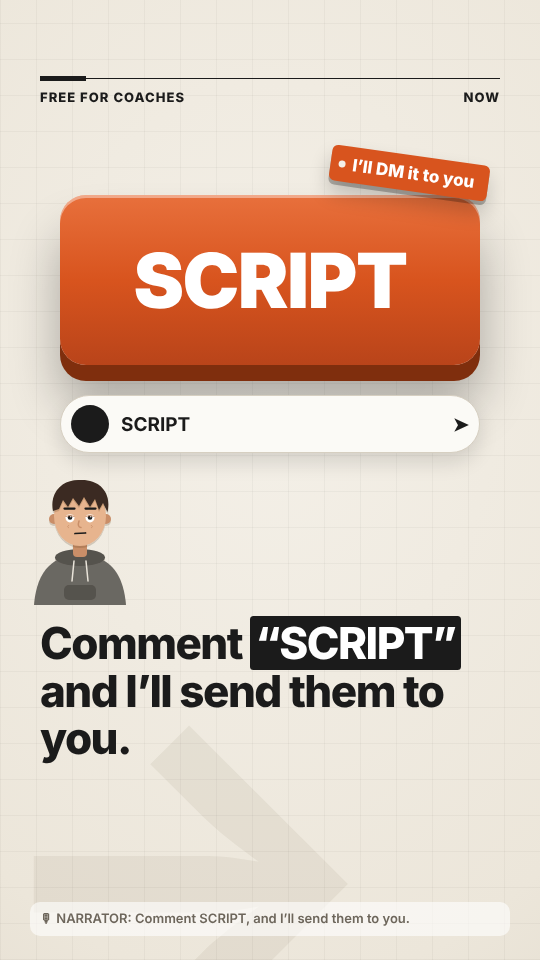
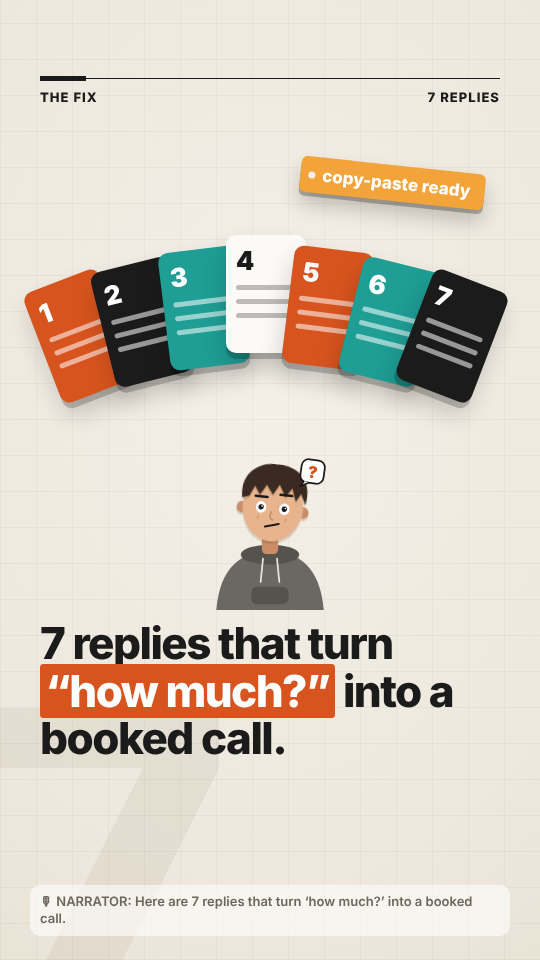
Script Reel: add 'With DMSetter' outcome scene and brand end card
Claude-Session: https://claude.ai/code/session_01LBacd4Ke2z6x4vxDoXBc2Z

diff --git a/video-studio/storyboards/script-reel/storyboard.html b/video-studio/storyboards/script-reel/storyboard.html
@@ -94,9 +94,17 @@ mark{background:#1B1B1B;color:#fff;padding:0 .1em;border-radius:.1em}mark.o{back
 .card7{position:absolute;width:80px;height:118px;border-radius:10px;box-shadow:0 6px 0 rgba(0,0,0,.2),0 14px 24px rgba(0,0,0,.18);padding:10px;color:#fff}
 .card7 b{font:900 26px Inter}.card7 i{display:block;height:5px;border-radius:3px;background:rgba(255,255,255,.55);margin-top:9px}
 .card7:nth-child(4){color:#1B1B1B}.card7:nth-child(4) i{background:rgba(0,0,0,.25)}
+.mascot{position:absolute;left:330px;top:40px;z-index:7;animation:none}
+.clock2{position:absolute;left:340px;top:190px;z-index:7;background:#fff;color:#D8541E;font:800 15px Inter;padding:6px 12px;border-radius:16px;box-shadow:0 3px 0 #d0c8b8;transform:rotate(4deg)}
+.stamp3{position:absolute;left:330px;top:250px;z-index:7;padding:4px 12px;border:5px solid #D8541E;color:#D8541E;font:900 30px Inter;border-radius:10px;transform:rotate(-12deg);background:rgba(244,240,232,.85)}
+.endlogo{position:absolute;left:150px;top:10px}
+.wm{position:absolute;left:0;right:0;top:250px;text-align:center;font:900 64px Inter;letter-spacing:-.04em;color:#1B1B1B}.wm span{color:#D8541E}
+.outc{position:absolute;left:70px;right:70px;top:340px;display:grid;grid-template-columns:1fr 1fr;gap:10px}
+.o{background:#FBFAF6;border-radius:12px;padding:10px 12px;font:800 14px/1.25 Inter;display:flex;gap:8px;align-items:center;box-shadow:0 3px 0 #d8d1c3}
+.o i{font-style:normal;flex:none;width:24px;height:24px;border-radius:50%;background:#D8541E;color:#fff;display:grid;place-items:center;font:900 13px Inter}
 .key{top:70px}.cbox{top:270px;font-weight:700;color:#1B1B1B}
 
-body{width:2732px;grid-template-columns:repeat(5,540px)}
+body{width:3820px;grid-template-columns:repeat(7,540px)}
 .vo{position:absolute;left:30px;right:30px;bottom:24px;font:600 13px/1.35 Inter;color:#6D665B;background:rgba(255,255,255,.6);border-radius:10px;padding:8px 10px}</style></head>
 <body><section class="fr"><div class="num">?</div>
 <header><div class="rule"></div><span>For coaches</span><em>11:41 PM</em></header>
@@ -122,10 +130,21 @@ body{width:2732px;grid-template-columns:repeat(5,540px)}
 <div class="th"><div class="m in" style="--i:0"><i class="av"></i><div class="b in">nvm, went with another coach 🙏</div></div><div class="m out" style="--i:1"><div class="b out">Hey! Sorry, just saw this 😅</div></div></div>
 <div class="in-bar"><i class="cam"><svg viewBox="0 0 24 24"><path d="M4 8h3l2-2.5h6L17 8h3v11H4z" fill="none" stroke="#fff" stroke-width="2" stroke-linejoin="round"/><circle cx="12" cy="13" r="3.2" fill="none" stroke="#fff" stroke-width="2"/></svg></i><span>Message...</span><svg viewBox="0 0 24 24"><rect x="9" y="3" width="6" height="11" rx="3" fill="none" stroke="#fff" stroke-width="1.8"/><path d="M5.5 11a6.5 6.5 0 0013 0M12 17.5V21" fill="none" stroke="#fff" stroke-width="1.8" stroke-linecap="round"/></svg><svg viewBox="0 0 24 24"><rect x="3" y="3" width="18" height="18" rx="4" fill="none" stroke="#fff" stroke-width="1.8"/><circle cx="9" cy="9" r="1.8" fill="#fff"/><path d="M4 18l5-5 4 4 3-3 4 4" fill="none" stroke="#fff" stroke-width="1.8" stroke-linejoin="round"/></svg><svg viewBox="0 0 24 24"><path d="M12 20s-7.5-4.6-7.5-10A4.3 4.3 0 0112 7.4 4.3 4.3 0 0119.5 10c0 5.4-7.5 10-7.5 10z" fill="none" stroke="#fff" stroke-width="1.8" stroke-linejoin="round"/></svg></div>
 </div></div><div class="chr" style="left:320px;top:280px"><svg class="chr" viewBox="0 0 240 300" width="170" height="212" xmlns="http://www.w3.org/2000/svg"><defs><filter id="cut" x="-10%" y="-10%" width="120%" height="130%"><feDropShadow dx="0" dy="4" stdDeviation="0" flood-color="#5A3C1E" flood-opacity=".22"/></filter></defs><g filter="url(#cut)"><path d="M28 300 C34 226 70 200 120 200 C170 200 206 226 212 300 Z" fill="#6B6862"/><ellipse cx="120" cy="205" rx="50" ry="17" fill="#55524D"/><path d="M108 212 L104 252 M132 212 L136 252" stroke="#E9E4DA" stroke-width="3" stroke-linecap="round"/><rect x="88" y="260" width="64" height="30" rx="10" fill="#55524D"/></g><rect x="106" y="168" width="28" height="36" rx="8" fill="#C98E68"/><g transform="rotate(0 120 170)"><g filter="url(#cut)"><circle cx="68" cy="128" r="10" fill="#C98E68"/><circle cx="172" cy="128" r="10" fill="#C98E68"/><ellipse cx="120" cy="122" rx="52" ry="60" fill="#E7B48E"/></g><path d="M98 140 q-6 4 0 6 M142 140 q6 4 0 6" stroke="#C98E68" stroke-width="2" fill="none" opacity=".7"/><path d="M118 132 q-4 12 4 13" stroke="#C98E68" stroke-width="3" fill="none" stroke-linecap="round"/><g filter="url(#cut)"><path d="M66 112 C58 70 90 48 120 50 C156 48 184 72 175 114 L166 96 L158 110 L150 88 L140 104 L128 84 L118 102 L106 86 L96 104 L86 90 L78 108 Z" fill="#3B2A20"/></g><g class="eyes"><ellipse cx="100" cy="125" rx="11" ry="13" fill="#FFFFFF"/><circle cx="100" cy="125" r="4" fill="#1B1B1B"/><circle cx="101.6" cy="123.4" r="1.4" fill="#fff"/><ellipse cx="140" cy="125" rx="11" ry="13" fill="#FFFFFF"/><circle cx="140" cy="125" r="4" fill="#1B1B1B"/><circle cx="141.6" cy="123.4" r="1.4" fill="#fff"/></g><path d="M89 102 L109 102" stroke="#1B1B1B" stroke-width="4.5" stroke-linecap="round"/><path d="M131 102 L151 102" stroke="#1B1B1B" stroke-width="4.5" stroke-linecap="round"/><ellipse cx="120" cy="160" rx="8" ry="10" fill="#1B1B1B"/><ellipse cx="120" cy="164" rx="5" ry="4" fill="#B5473A"/></g><path d="M176 92 q7 12 0 18 q-7 -6 0 -18z" fill="#7FC8F2" stroke="#3E8FC2" stroke-width="1.5"/><path d="M60 96 q6 10 0 15 q-6 -5 0 -15z" fill="#7FC8F2" stroke="#3E8FC2" stroke-width="1.5"/></svg></div><div class="say" style="left:300px;top:230px"><b>BEN</b>Sorry, just saw this…</div></div><div class="cap">You didn’t lose them to price. <span class="hl">You lost them to time.</span></div>
-<div class="vo">🎙 BEN: [groans] Sorry, just saw this… / NARRATOR: You didn’t lose them to price. You lost them to time.</div></section><section class="fr"><div class="num">7</div>
+<div class="vo">🎙 BEN: [groans] Sorry, just saw this… / NARRATOR: You didn’t lose them to price. You lost them to time.</div></section><section class="fr"><div class="num">✓</div>
+<header><div class="rule"></div><span>With DMSetter</span><em>11:41 PM</em></header>
+<div class="vis"><div class="ph" style="left:30px;top:10px;width:290px;height:400px;transform:rotate(-2deg)"><div class="scr">
+<div class="sb"><b>9:41</b><span class="isl"></span><em><s></s><s></s><s></s><s></s></em></div>
+<div class="hd"><svg viewBox="0 0 24 24"><path d="M15 4l-8 8 8 8" fill="none" stroke="#fff" stroke-width="2.4" stroke-linecap="round" stroke-linejoin="round"/></svg><i class="pav"></i><div><b>New lead</b><small>Active now</small></div><span><svg viewBox="0 0 24 24"><path d="M5 4h4l2 5-2.5 1.5a11 11 0 005 5L15 13l5 2v4a2 2 0 01-2 2A16 16 0 013 6a2 2 0 012-2" fill="none" stroke="#fff" stroke-width="1.8" stroke-linejoin="round"/></svg><svg viewBox="0 0 24 24"><rect x="2.5" y="6" width="13" height="12" rx="3" fill="none" stroke="#fff" stroke-width="1.8"/><path d="M15.5 10.5l6-3.5v10l-6-3.5" fill="none" stroke="#fff" stroke-width="1.8" stroke-linejoin="round"/></svg></span></div>
+<div class="th"><div class="m in" style="--i:0"><i class="av"></i><div class="b in">how much is your coaching?</div></div><div class="m out" style="--i:1"><div class="b out hlb">Hey! Love that you reached out 🙌 What's your goal right now?</div></div><div class="m in" style="--i:2"><i class="av"></i><div class="b in">drop 8kg before summer</div></div><div class="m out" style="--i:3"><div class="b out">Got you. Quick call Thursday 3 PM to see if it's a fit?</div></div><div class="m in" style="--i:4"><i class="av"></i><div class="b in">yes!! 🙌</div></div></div>
+<div class="in-bar"><i class="cam"><svg viewBox="0 0 24 24"><path d="M4 8h3l2-2.5h6L17 8h3v11H4z" fill="none" stroke="#fff" stroke-width="2" stroke-linejoin="round"/><circle cx="12" cy="13" r="3.2" fill="none" stroke="#fff" stroke-width="2"/></svg></i><span>Message...</span><svg viewBox="0 0 24 24"><rect x="9" y="3" width="6" height="11" rx="3" fill="none" stroke="#fff" stroke-width="1.8"/><path d="M5.5 11a6.5 6.5 0 0013 0M12 17.5V21" fill="none" stroke="#fff" stroke-width="1.8" stroke-linecap="round"/></svg><svg viewBox="0 0 24 24"><rect x="3" y="3" width="18" height="18" rx="4" fill="none" stroke="#fff" stroke-width="1.8"/><circle cx="9" cy="9" r="1.8" fill="#fff"/><path d="M4 18l5-5 4 4 3-3 4 4" fill="none" stroke="#fff" stroke-width="1.8" stroke-linejoin="round"/></svg><svg viewBox="0 0 24 24"><path d="M12 20s-7.5-4.6-7.5-10A4.3 4.3 0 0112 7.4 4.3 4.3 0 0119.5 10c0 5.4-7.5 10-7.5 10z" fill="none" stroke="#fff" stroke-width="1.8" stroke-linejoin="round"/></svg></div>
+</div></div><div class="mascot"><svg xmlns="http://www.w3.org/2000/svg" viewBox="10 -20 260 260" width="130" height="130"><g fill="#5A3C1E" opacity=".22"><circle cx="70" cy="125" r="44"/><circle cx="112" cy="93" r="52"/><circle cx="162" cy="103" r="46"/><circle cx="190" cy="139" r="38"/><circle cx="128" cy="147" r="50"/><circle cx="82" cy="157" r="36"/><circle cx="170" cy="163" r="34"/><rect x="46" y="133" width="168" height="58" rx="29"/></g><g fill="#D8541E"><circle cx="70" cy="118" r="44"/><circle cx="112" cy="86" r="52"/><circle cx="162" cy="96" r="46"/><circle cx="190" cy="132" r="38"/><circle cx="128" cy="140" r="50"/><circle cx="82" cy="150" r="36"/><circle cx="170" cy="156" r="34"/><rect x="46" y="126" width="168" height="58" rx="29"/></g><rect x="128" y="80" width="15" height="29" rx="7.5" fill="#1B1B1B" transform="rotate(30 135 94)"/><rect x="160" y="84" width="15" height="29" rx="7.5" fill="#1B1B1B" transform="rotate(30 167 98)"/><circle cx="140" cy="86" r="2.8" fill="#fff" opacity=".9"/><circle cx="172" cy="90" r="2.8" fill="#fff" opacity=".9"/><circle cx="208" cy="62" r="40" fill="#5A3C1E" opacity=".22"/><circle cx="208" cy="58" r="40" fill="#F4F0E8"/><circle cx="208" cy="58" r="34" fill="#1B1B1B"/><g transform="translate(187 37) scale(1.05)"><path d="M3 19 L37 4 L27 36 L19 24 Z" fill="#fff" stroke="#fff" stroke-width="2.5" stroke-linejoin="round"/><path d="M19 24 L37 4" stroke="#C9D3E3" stroke-width="3" stroke-linecap="round"/><path d="M19 24 L19 33 L24 28" fill="#C9D3E3"/></g></svg></div><div class="clock2">replied in 38 sec</div><div class="stamp3">BOOKED</div><div class="chr" style="left:380px;top:320px"><svg class="chr" viewBox="0 0 240 300" width="130" height="162" xmlns="http://www.w3.org/2000/svg"><defs><filter id="cut" x="-10%" y="-10%" width="120%" height="130%"><feDropShadow dx="0" dy="4" stdDeviation="0" flood-color="#5A3C1E" flood-opacity=".22"/></filter></defs><g filter="url(#cut)"><path d="M28 300 C34 226 70 200 120 200 C170 200 206 226 212 300 Z" fill="#6B6862"/><ellipse cx="120" cy="205" rx="50" ry="17" fill="#55524D"/><path d="M108 212 L104 252 M132 212 L136 252" stroke="#E9E4DA" stroke-width="3" stroke-linecap="round"/><rect x="88" y="260" width="64" height="30" rx="10" fill="#55524D"/></g><rect x="106" y="168" width="28" height="36" rx="8" fill="#C98E68"/><g transform="rotate(18 120 170)"><g filter="url(#cut)"><circle cx="68" cy="128" r="10" fill="#C98E68"/><circle cx="172" cy="128" r="10" fill="#C98E68"/><ellipse cx="120" cy="122" rx="52" ry="60" fill="#E7B48E"/></g><path d="M98 140 q-6 4 0 6 M142 140 q6 4 0 6" stroke="#C98E68" stroke-width="2" fill="none" opacity=".7"/><path d="M118 132 q-4 12 4 13" stroke="#C98E68" stroke-width="3" fill="none" stroke-linecap="round"/><g filter="url(#cut)"><path d="M66 112 C58 70 90 48 120 50 C156 48 184 72 175 114 L166 96 L158 110 L150 88 L140 104 L128 84 L118 102 L106 86 L96 104 L86 90 L78 108 Z" fill="#3B2A20"/></g><g class="eyes"><path d="M91 125 q9 7 18 0" stroke="#1B1B1B" stroke-width="3.2" fill="none" stroke-linecap="round"/><path d="M131 125 q9 7 18 0" stroke="#1B1B1B" stroke-width="3.2" fill="none" stroke-linecap="round"/></g><path d="M89 107 L109 107" stroke="#1B1B1B" stroke-width="4.5" stroke-linecap="round"/><path d="M131 107 L151 107" stroke="#1B1B1B" stroke-width="4.5" stroke-linecap="round"/><path d="M113 157 Q120 161 127 157" stroke="#1B1B1B" stroke-width="3" fill="none" stroke-linecap="round"/></g><text x="168" y="70" font-family="Inter" font-weight="900" font-size="26" fill="#1B1B1B">Z</text><text x="190" y="48" font-family="Inter" font-weight="900" font-size="18" fill="#1B1B1B">z</text><text x="205" y="32" font-family="Inter" font-weight="900" font-size="13" fill="#1B1B1B">z</text></svg></div></div><div class="cap">With <span class="hlo">DMSetter</span>, you wake up to <span class="hl">booked calls.</span></div>
+<div class="vo">🎙 NARRATOR: With DMSetter, that same DM gets answered in seconds, qualified, and booked… while you sleep.</div></section><section class="fr"><div class="num">7</div>
 <header><div class="rule"></div><span>The fix</span><em>7 replies</em></header>
 <div class="vis"><div class="card7" style="left:40px;top:152px;transform:rotate(-21deg);background:#D8541E"><b>1</b><i></i><i></i><i></i></div><div class="card7" style="left:102px;top:138px;transform:rotate(-14deg);background:#1B1B1B"><b>2</b><i></i><i></i><i></i></div><div class="card7" style="left:164px;top:124px;transform:rotate(-7deg);background:#1E9E95"><b>3</b><i></i><i></i><i></i></div><div class="card7" style="left:226px;top:110px;transform:rotate(0deg);background:#FBFAF6"><b>4</b><i></i><i></i><i></i></div><div class="card7" style="left:288px;top:124px;transform:rotate(7deg);background:#D8541E"><b>5</b><i></i><i></i><i></i></div><div class="card7" style="left:350px;top:138px;transform:rotate(14deg);background:#1E9E95"><b>6</b><i></i><i></i><i></i></div><div class="card7" style="left:412px;top:152px;transform:rotate(21deg);background:#1B1B1B"><b>7</b><i></i><i></i><i></i></div><div class="chr" style="left:200px;top:310px"><svg class="chr" viewBox="0 0 240 300" width="140" height="175" xmlns="http://www.w3.org/2000/svg"><defs><filter id="cut" x="-10%" y="-10%" width="120%" height="130%"><feDropShadow dx="0" dy="4" stdDeviation="0" flood-color="#5A3C1E" flood-opacity=".22"/></filter></defs><g filter="url(#cut)"><path d="M28 300 C34 226 70 200 120 200 C170 200 206 226 212 300 Z" fill="#6B6862"/><ellipse cx="120" cy="205" rx="50" ry="17" fill="#55524D"/><path d="M108 212 L104 252 M132 212 L136 252" stroke="#E9E4DA" stroke-width="3" stroke-linecap="round"/><rect x="88" y="260" width="64" height="30" rx="10" fill="#55524D"/></g><rect x="106" y="168" width="28" height="36" rx="8" fill="#C98E68"/><g transform="rotate(6 120 170)"><g filter="url(#cut)"><circle cx="68" cy="128" r="10" fill="#C98E68"/><circle cx="172" cy="128" r="10" fill="#C98E68"/><ellipse cx="120" cy="122" rx="52" ry="60" fill="#E7B48E"/></g><path d="M98 140 q-6 4 0 6 M142 140 q6 4 0 6" stroke="#C98E68" stroke-width="2" fill="none" opacity=".7"/><path d="M118 132 q-4 12 4 13" stroke="#C98E68" stroke-width="3" fill="none" stroke-linecap="round"/><g filter="url(#cut)"><path d="M66 112 C58 70 90 48 120 50 C156 48 184 72 175 114 L166 96 L158 110 L150 88 L140 104 L128 84 L118 102 L106 86 L96 104 L86 90 L78 108 Z" fill="#3B2A20"/></g><g class="eyes"><ellipse cx="100" cy="125" rx="9" ry="10" fill="#FFFFFF"/><circle cx="100" cy="125" r="4.6" fill="#1B1B1B"/><circle cx="101.6" cy="123.4" r="1.4" fill="#fff"/><ellipse cx="140" cy="125" rx="9" ry="10" fill="#FFFFFF"/><circle cx="140" cy="125" r="4.6" fill="#1B1B1B"/><circle cx="141.6" cy="123.4" r="1.4" fill="#fff"/></g><path d="M89 107 L109 107" stroke="#1B1B1B" stroke-width="4.5" stroke-linecap="round"/><path d="M131 101 L151 101" stroke="#1B1B1B" stroke-width="4.5" stroke-linecap="round"/><path d="M110 158 Q122 154 133 151" stroke="#1B1B1B" stroke-width="3.5" fill="none" stroke-linecap="round"/></g><g transform="translate(176 40) rotate(8)"><rect x="0" y="0" width="40" height="40" rx="12" fill="#fff" stroke="#1B1B1B" stroke-width="3"/><path d="M8 38 l-6 10 l14 -8" fill="#fff" stroke="#1B1B1B" stroke-width="3" stroke-linejoin="round"/><text x="12" y="31" font-family="Inter" font-weight="900" font-size="28" fill="#D8541E">?</text></g></svg></div><div class="tag" style="left:300px;top:40px;background:#F2A33A;transform:rotate(6deg)">copy-paste ready</div></div><div class="cap">7 replies that turn <span class="hlo">“how much?”</span> into a booked call.</div>
 <div class="vo">🎙 NARRATOR: Here are 7 replies that turn ‘how much?’ into a booked call.</div></section><section class="fr"><div class="num">→</div>
 <header><div class="rule"></div><span>Free for coaches</span><em>Now</em></header>
 <div class="vis"><div class="key press">SCRIPT</div><div class="cbox"><i></i>SCRIPT<b>&#10148;</b></div><div class="tag" style="left:330px;top:30px;background:#D8541E;transform:rotate(8deg)">I’ll DM it to you</div><div class="chr" style="left:20px;top:330px"><svg class="chr" viewBox="0 0 240 300" width="120" height="150" xmlns="http://www.w3.org/2000/svg"><defs><filter id="cut" x="-10%" y="-10%" width="120%" height="130%"><feDropShadow dx="0" dy="4" stdDeviation="0" flood-color="#5A3C1E" flood-opacity=".22"/></filter></defs><g filter="url(#cut)"><path d="M28 300 C34 226 70 200 120 200 C170 200 206 226 212 300 Z" fill="#6B6862"/><ellipse cx="120" cy="205" rx="50" ry="17" fill="#55524D"/><path d="M108 212 L104 252 M132 212 L136 252" stroke="#E9E4DA" stroke-width="3" stroke-linecap="round"/><rect x="88" y="260" width="64" height="30" rx="10" fill="#55524D"/></g><rect x="106" y="168" width="28" height="36" rx="8" fill="#C98E68"/><g transform="rotate(0 120 170)"><g filter="url(#cut)"><circle cx="68" cy="128" r="10" fill="#C98E68"/><circle cx="172" cy="128" r="10" fill="#C98E68"/><ellipse cx="120" cy="122" rx="52" ry="60" fill="#E7B48E"/></g><path d="M98 140 q-6 4 0 6 M142 140 q6 4 0 6" stroke="#C98E68" stroke-width="2" fill="none" opacity=".7"/><path d="M118 132 q-4 12 4 13" stroke="#C98E68" stroke-width="3" fill="none" stroke-linecap="round"/><g filter="url(#cut)"><path d="M66 112 C58 70 90 48 120 50 C156 48 184 72 175 114 L166 96 L158 110 L150 88 L140 104 L128 84 L118 102 L106 86 L96 104 L86 90 L78 108 Z" fill="#3B2A20"/></g><g class="eyes"><ellipse cx="100" cy="125" rx="9" ry="10" fill="#FFFFFF"/><circle cx="100" cy="125" r="4.6" fill="#1B1B1B"/><circle cx="101.6" cy="123.4" r="1.4" fill="#fff"/><path d="M90 123 Q100 114 110 123 L110 112 L90 112 Z" fill="#E7B48E"/><path d="M91 123 Q100 119 109 123" stroke="#C98E68" stroke-width="2" fill="none"/><ellipse cx="140" cy="125" rx="9" ry="10" fill="#FFFFFF"/><circle cx="140" cy="125" r="4.6" fill="#1B1B1B"/><circle cx="141.6" cy="123.4" r="1.4" fill="#fff"/><path d="M130 123 Q140 114 150 123 L150 112 L130 112 Z" fill="#E7B48E"/><path d="M131 123 Q140 119 149 123" stroke="#C98E68" stroke-width="2" fill="none"/></g><path d="M89 107 L109 107" stroke="#1B1B1B" stroke-width="4.5" stroke-linecap="round"/><path d="M131 107 L151 107" stroke="#1B1B1B" stroke-width="4.5" stroke-linecap="round"/><path d="M110 157 L131 156" stroke="#1B1B1B" stroke-width="3.5" stroke-linecap="round"/></g></svg></div></div><div class="cap">Comment <span class="hl">“SCRIPT”</span> and I’ll send them to you.</div>
-<div class="vo">🎙 NARRATOR: Comment SCRIPT, and I’ll send them to you.</div></section></body></html>
+<div class="vo">🎙 NARRATOR: Comment SCRIPT, and I’ll send them to you.</div></section><section class="fr"><div class="num">✓</div>
+<header><div class="rule"></div><span>DMSetter</span><em>Your DMs, handled</em></header>
+<div class="vis"><div class="endlogo"><svg xmlns="http://www.w3.org/2000/svg" viewBox="10 -20 260 260" width="240" height="240"><g fill="#5A3C1E" opacity=".22"><circle cx="70" cy="125" r="44"/><circle cx="112" cy="93" r="52"/><circle cx="162" cy="103" r="46"/><circle cx="190" cy="139" r="38"/><circle cx="128" cy="147" r="50"/><circle cx="82" cy="157" r="36"/><circle cx="170" cy="163" r="34"/><rect x="46" y="133" width="168" height="58" rx="29"/></g><g fill="#D8541E"><circle cx="70" cy="118" r="44"/><circle cx="112" cy="86" r="52"/><circle cx="162" cy="96" r="46"/><circle cx="190" cy="132" r="38"/><circle cx="128" cy="140" r="50"/><circle cx="82" cy="150" r="36"/><circle cx="170" cy="156" r="34"/><rect x="46" y="126" width="168" height="58" rx="29"/></g><rect x="128" y="80" width="15" height="29" rx="7.5" fill="#1B1B1B" transform="rotate(30 135 94)"/><rect x="160" y="84" width="15" height="29" rx="7.5" fill="#1B1B1B" transform="rotate(30 167 98)"/><circle cx="140" cy="86" r="2.8" fill="#fff" opacity=".9"/><circle cx="172" cy="90" r="2.8" fill="#fff" opacity=".9"/><circle cx="208" cy="62" r="40" fill="#5A3C1E" opacity=".22"/><circle cx="208" cy="58" r="40" fill="#F4F0E8"/><circle cx="208" cy="58" r="34" fill="#1B1B1B"/><g transform="translate(187 37) scale(1.05)"><path d="M3 19 L37 4 L27 36 L19 24 Z" fill="#fff" stroke="#fff" stroke-width="2.5" stroke-linejoin="round"/><path d="M19 24 L37 4" stroke="#C9D3E3" stroke-width="3" stroke-linecap="round"/><path d="M19 24 L19 33 L24 28" fill="#C9D3E3"/></g></svg></div><div class="wm">DM<span>Setter</span></div><div class="outc"><div class="o"><i>✓</i>Replies in seconds, 24/7</div><div class="o"><i>✓</i>Qualifies every lead</div><div class="o"><i>✓</i>Follows up until they answer</div><div class="o"><i>✓</i>Books calls into your calendar</div></div></div><div class="cap">More booked calls. <span class="hlo">Zero DMs at 2 AM.</span></div>
+<div class="vo">🎙 NARRATOR: DMSetter. More booked calls. Zero DMs at two A.M.</div></section></body></html>

diff --git a/video-studio/storyboards/script-reel/build.py b/video-studio/storyboards/script-reel/build.py
@@ -12,6 +12,7 @@ import characters as C  # noqa: E402
 
 K, O, T_, A = ns["K"], ns["O"], ns["T"], ns["A"]
 phone, tag = ns["phone"], ns["tag"]
+LOGO = open(os.path.join(studio, "brand", "logo", "svg", "mark_primary.svg")).read()
 BASE_CSS = re.search(r"<style>(.*?)</style>", ns["html"], re.S).group(1)
 
 
@@ -40,6 +41,13 @@ FRAMES = [
              + ben("panic", 170, 320, 280) + say("Sorry, just saw this…", 300, 230),
          cap='You didn’t lose them to price. <span class="hl">You lost them to time.</span>',
          vo="BEN: [groans] Sorry, just saw this… / NARRATOR: You didn’t lose them to price. You lost them to time."),
+    dict(label="With DMSetter", right="11:41 PM", num="✓",
+         vis=phone([("in", "how much is your coaching?"), ("out", "Hey! Love that you reached out 🙌 What's your goal right now?"), ("in", "drop 8kg before summer"),
+                    ("out", "Got you. Quick call Thursday 3 PM to see if it's a fit?"), ("in", "yes!! 🙌")], x=30, y=10, rot=-2, w=290, h=400, seen=False, name="New lead", hl=1)
+             + f'<div class="mascot">{LOGO.replace('width="260" height="260"', 'width="130" height="130"')}</div>'
+             + '<div class="clock2">replied in 38 sec</div><div class="stamp3">BOOKED</div>' + ben("asleep", 130, 380, 320),
+         cap='With <span class="hlo">DMSetter</span>, you wake up to <span class="hl">booked calls.</span>',
+         vo="NARRATOR: With DMSetter, that same DM gets answered in seconds, qualified, and booked… while you sleep."),
     dict(label="The fix", right="7 replies", num="7",
          vis="".join(f'<div class="card7" style="left:{40 + i * 62}px;top:{110 + abs(3 - i) * 14}px;transform:rotate({(i - 3) * 7}deg);background:{[O, K, T_, "#FBFAF6", O, T_, K][i]}"><b>{i + 1}</b><i></i><i></i><i></i></div>' for i in range(7))
              + ben("confused", 140, 200, 310) + tag("copy-paste ready", A, 300, 40, 6),
@@ -50,6 +58,12 @@ FRAMES = [
              + tag("I’ll DM it to you", O, 330, 30, 8) + ben("tired", 120, 20, 330),
          cap='Comment <span class="hl">“SCRIPT”</span> and I’ll send them to you.',
          vo="NARRATOR: Comment SCRIPT, and I’ll send them to you."),
+    dict(label="DMSetter", right="Your DMs, handled", num="✓",
+         vis=f'<div class="endlogo">{LOGO.replace('width="260" height="260"', 'width="240" height="240"')}</div>'
+             + '<div class="wm">DM<span>Setter</span></div><div class="outc">'
+             + "".join(f'<div class="o"><i>✓</i>{t}</div>' for t in ["Replies in seconds, 24/7", "Qualifies every lead", "Follows up until they answer", "Books calls into your calendar"]) + '</div>',
+         cap='More booked calls. <span class="hlo">Zero DMs at 2 AM.</span>',
+         vo="NARRATOR: DMSetter. More booked calls. Zero DMs at two A.M."),
 ]
 
 EXTRA = f"""
@@ -61,6 +75,14 @@ EXTRA = f"""
 .card7{{position:absolute;width:80px;height:118px;border-radius:10px;box-shadow:0 6px 0 rgba(0,0,0,.2),0 14px 24px rgba(0,0,0,.18);padding:10px;color:#fff}}
 .card7 b{{font:900 26px Inter}}.card7 i{{display:block;height:5px;border-radius:3px;background:rgba(255,255,255,.55);margin-top:9px}}
 .card7:nth-child(4){{color:{K}}}.card7:nth-child(4) i{{background:rgba(0,0,0,.25)}}
+.mascot{{position:absolute;left:330px;top:40px;z-index:7;animation:none}}
+.clock2{{position:absolute;left:340px;top:190px;z-index:7;background:#fff;color:{O};font:800 15px Inter;padding:6px 12px;border-radius:16px;box-shadow:0 3px 0 #d0c8b8;transform:rotate(4deg)}}
+.stamp3{{position:absolute;left:330px;top:250px;z-index:7;padding:4px 12px;border:5px solid {O};color:{O};font:900 30px Inter;border-radius:10px;transform:rotate(-12deg);background:rgba(244,240,232,.85)}}
+.endlogo{{position:absolute;left:150px;top:10px}}
+.wm{{position:absolute;left:0;right:0;top:250px;text-align:center;font:900 64px Inter;letter-spacing:-.04em;color:{K}}}.wm span{{color:{O}}}
+.outc{{position:absolute;left:70px;right:70px;top:340px;display:grid;grid-template-columns:1fr 1fr;gap:10px}}
+.o{{background:#FBFAF6;border-radius:12px;padding:10px 12px;font:800 14px/1.25 Inter;display:flex;gap:8px;align-items:center;box-shadow:0 3px 0 #d8d1c3}}
+.o i{{font-style:normal;flex:none;width:24px;height:24px;border-radius:50%;background:{O};color:#fff;display:grid;place-items:center;font:900 13px Inter}}
 .key{{top:70px}}.cbox{{top:270px;font-weight:700;color:{K}}}
 """
 
